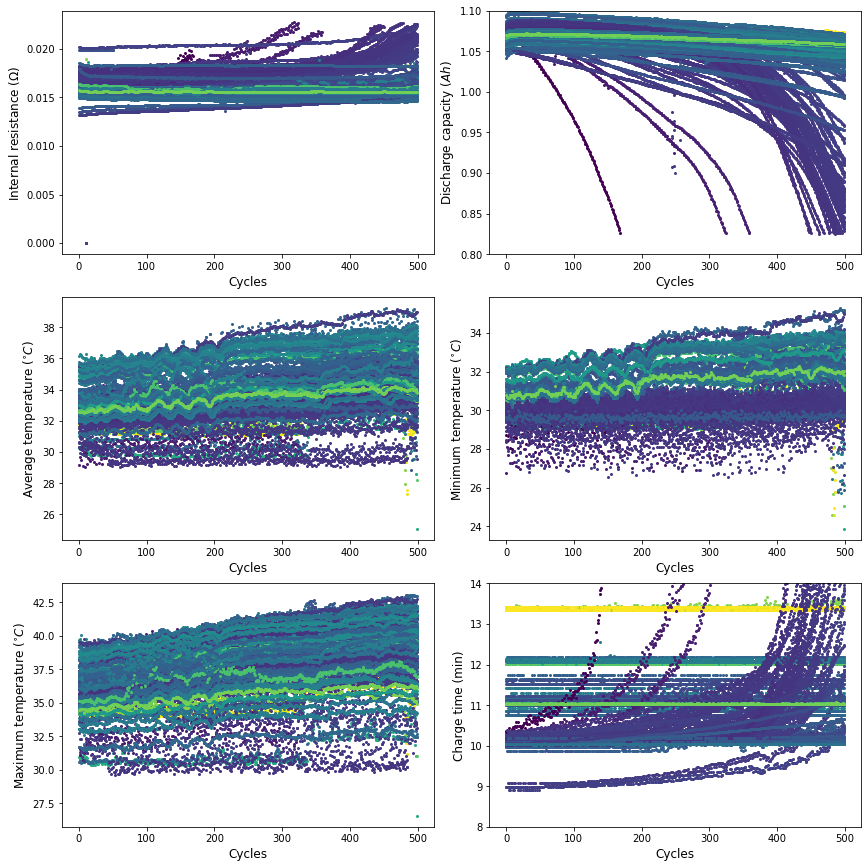
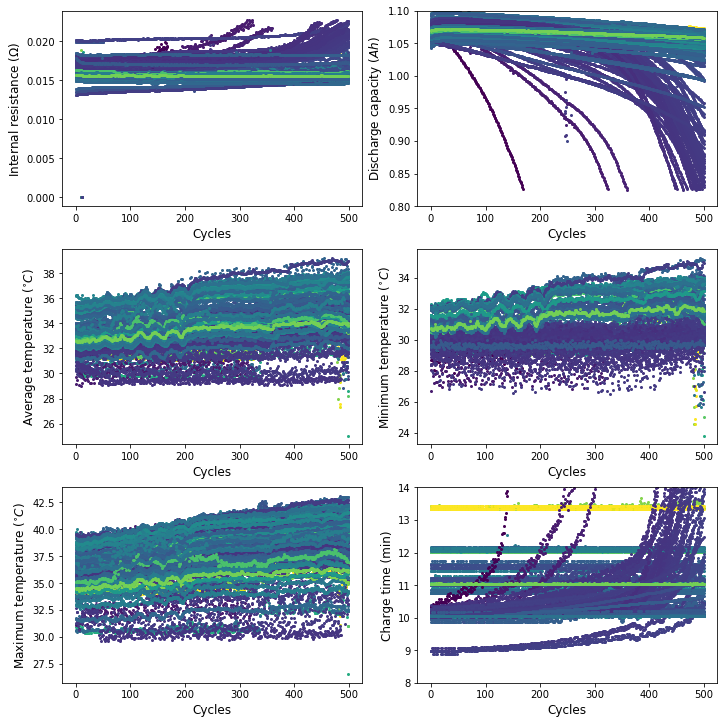
updates utils functions

Changed region(s): [[0.0, 0.0, 1.0, 1.0], [0.0, 0.6685, 0.5166, 1.0]]

diff --git a/utils/utils_noah.py b/utils/utils_noah.py
@@ -474,7 +474,7 @@ def tCCvsCVfrac_state(data_dict):
 
 def TIEVC_state(data_dict):
     '''
-    This function generates the features corresponding to TEIVC, time interval during equal voltage change
+    This function generates the features corresponding to TIEVC, time interval during equal voltage change
     '''
 
     TIEVC_multi_values = []
@@ -654,11 +654,11 @@ def dQdVfeatures(data_dict):
     This function generates dQdV features for 
 
         dQdVpeak_maxloc_ch:   the location of the maximum value of the dQdV vs V curve (charge)
-        dQdVpeak_maxmag_ch:   the amplitude of the maximum value of the dQdV vs V curve (charge)
+        dQdVpeak_maxmag_ch:   the maximum value of the dQdV vs V curve (charge)
         dQdVpeak_maxarea_ch:  the area under the dQdV vs V curve (charge)
 
         dQdVvalley_minloc_di:   the location of the minimum value of the dQdV vs V curve (discharge)
-        dQdVvalley_minmag_di:   the amplitude of the minimum value of the dQdV vs V curve (discharge)
+        dQdVvalley_minmag_di:   the minimum value of the dQdV vs V curve (discharge)
         dQdVvalley_minarea_di:  the area under the dQdV vs V curve (discharge)
     '''
     dQdV_multi_values = []
@@ -695,12 +695,12 @@ def dVdQfeatures(data_dict):
     This function generates dVdQ features for 
 
         dVdQpeak_maxloc_ch:   the location of the maximum value of the dVdQ vs Q curve (charge)
-        dQdVpeak_maxmag_ch:   the amplitude of the maximum value of the dVdQ vs Q curve (charge)
-        dQdVpeak_maxarea_ch:  the area under the dVdQ vs Q curve (charge)
+        dVdQpeak_maxmag_ch:   the maximum value of the dVdQ vs Q curve (charge)
+        dVdQpeak_maxarea_ch:  the area under the dVdQ vs Q curve (charge)
 
         dVdQpeak_maxloc_di:   the location of the maximum value of the dVdQ vs Q curve (discharge)
-        dQdVpeak_maxmag_di:   the amplitude of the maximum value of the dVdQ vs Q curve (discharge)
-        dQdVpeak_maxarea_di:  the area under the dVdQ vs Q curve (discharge)
+        dVdQpeak_maxmag_di:   the maximum value of the dVdQ vs Q curve (discharge)
+        dVdQpeak_maxarea_di:  the area under the dVdQ vs Q curve (discharge)
     '''
     dVdQ_multi_values = []
 

diff --git a/utils/utils_gn.py b/utils/utils_gn.py
@@ -475,7 +475,7 @@ def individual_summary_data_exploration(data_dict, fname):
                       'Tavg': r'Average temperature ($^{\circ}C$)', 'Tmin': r'Minimum temperature ($^{\circ}C$)',
                       'Tmax': r'Maximum temperature ($^{\circ}C$)', 'chargetime': r'Charge time (min)'}
     
-    fig, ax = plt.subplots(3, 2, figsize=(12, 12))
+    fig, ax = plt.subplots(3, 2, figsize=(10, 10))
 
     i = 0
     for feature in name_unit_dict.keys():
